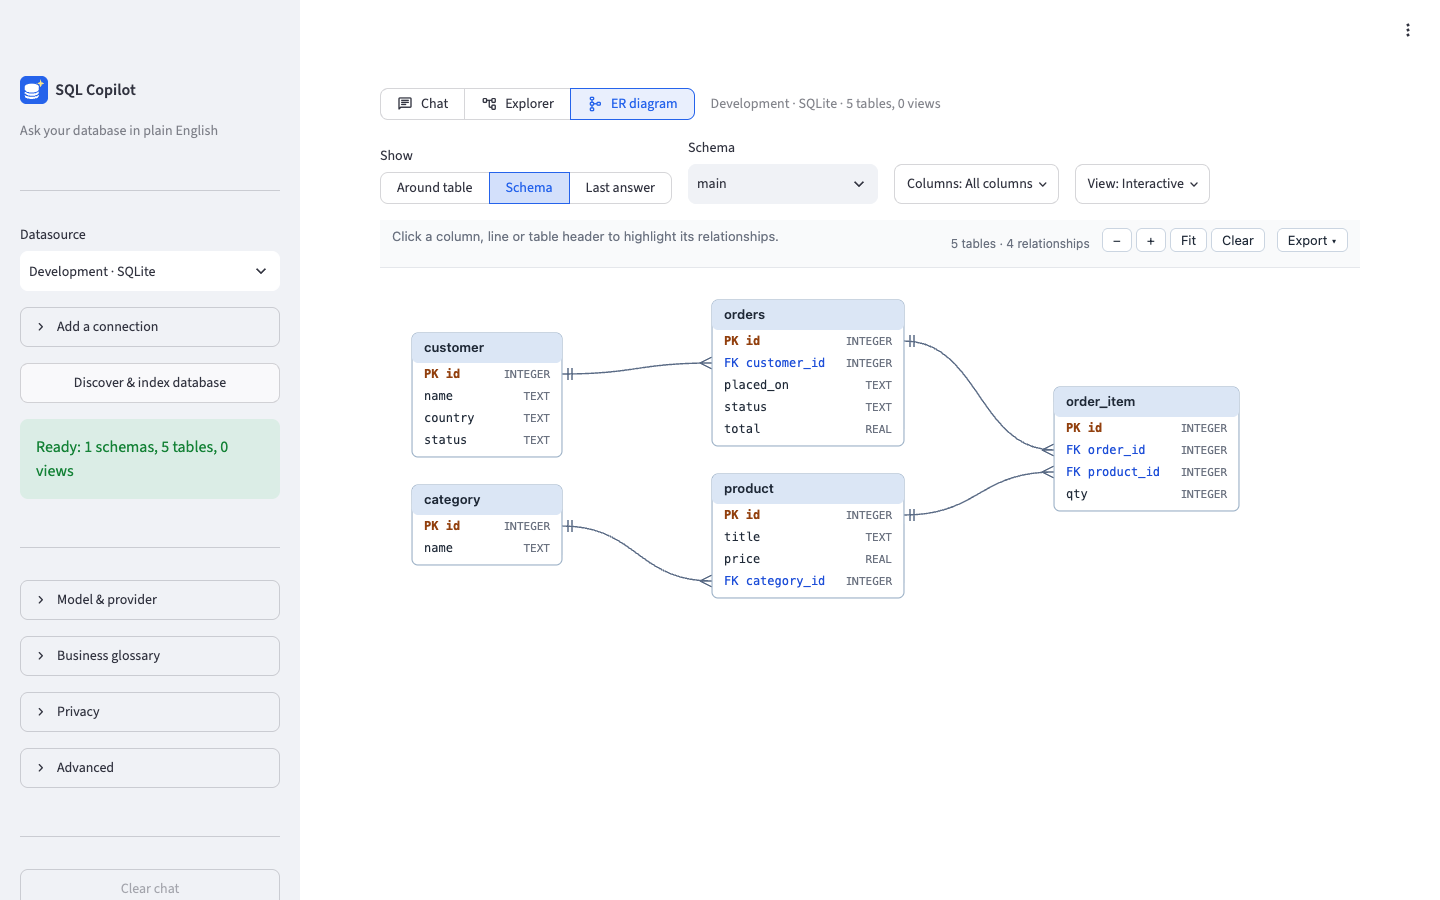
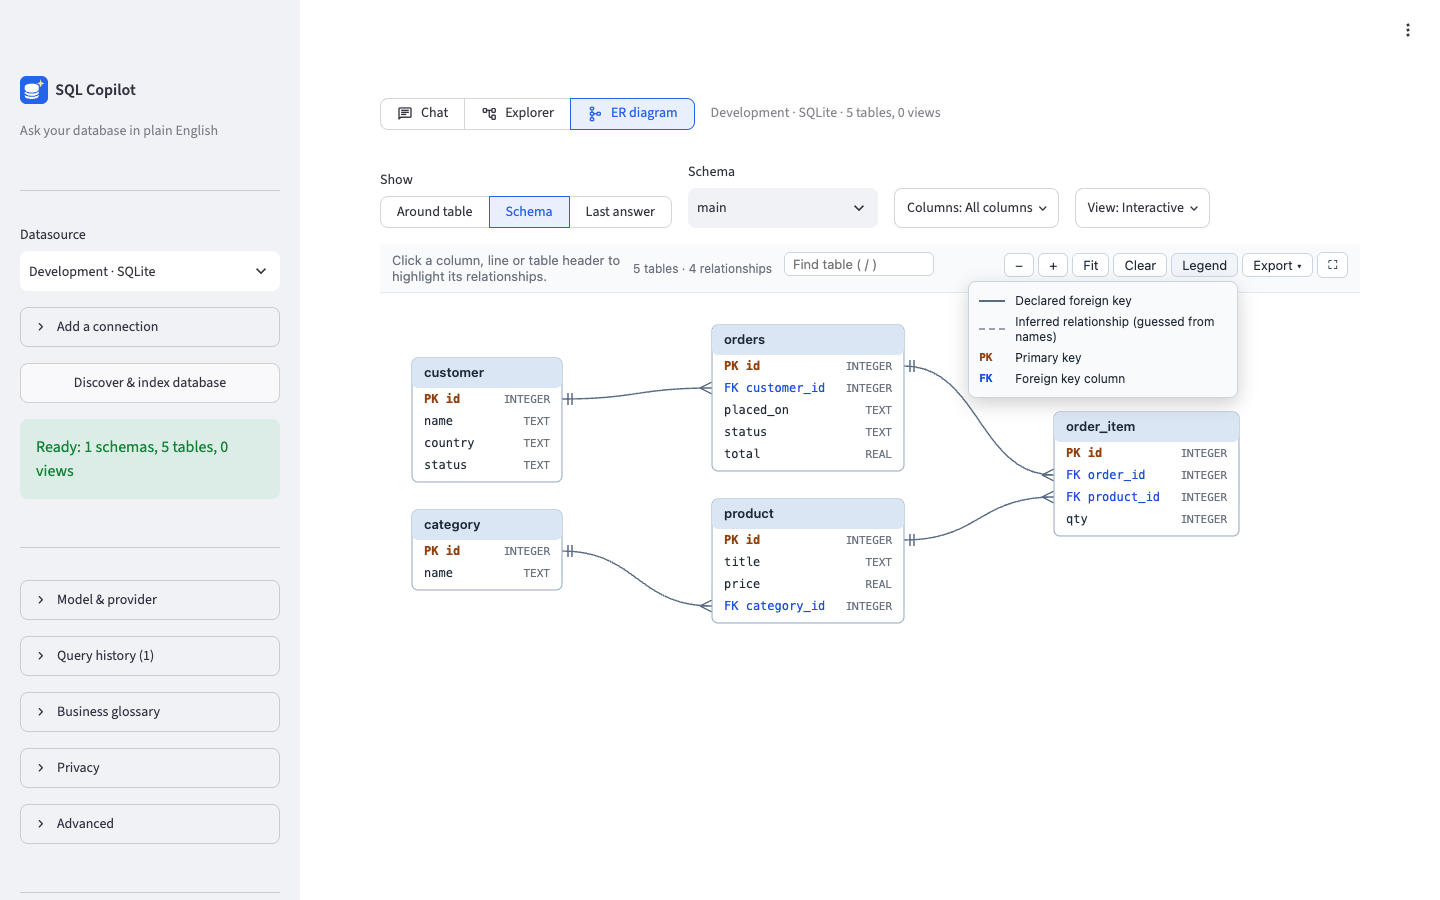
Update the README and refresh the screenshots
Retake the screenshots with the current interface, add the chart, column
profile and helpful-error views, and correct the stated test duration.

diff --git a/README.md b/README.md
@@ -29,23 +29,35 @@ Ask questions about your database in plain English and get SQL, results, charts 
 
 ## Screenshots
 
-The screenshots use a small demo shop database (SQLite).
+The screenshots use a small demo shop database (SQLite). The chat answer was produced with a stand-in model so the screenshots are reproducible; everything on screen is drawn by the real app.
 
 **Verified example questions on the landing page** (run instantly, no model needed)
 
 ![Chat landing page with verified example questions](docs/screenshots/chat-landing.png)
 
-**An answer with table, chart, SQL, CSV download and follow-up suggestions**
+**An answer with a sortable table, SQL, CSV download, Correct / Wrong buttons and follow-up suggestions**
 
 ![Chat answer showing a result table](docs/screenshots/chat-answer.png)
 
-**Explorer:** browse, filter, sort and export table data
+**The same answer as a chart** (switch type, axes, combine rows or split by)
 
-![Explorer showing the Data section of a table](docs/screenshots/explorer.png)
+![Chart tab with the chart type and axis pickers](docs/screenshots/chat-chart.png)
 
-**Interactive ER diagram**
+**Explorer:** browse, filter and sort table data, select a row to see it in full and follow its relationships
 
-![Interactive ER diagram of the whole schema](docs/screenshots/er-diagram.png)
+![Explorer showing the Data section of a table with a selected row](docs/screenshots/explorer.png)
+
+**Explorer:** profile a column (nulls, distinct values, range, spread)
+
+![Explorer Properties section with a column profile](docs/screenshots/explorer-profile.png)
+
+**Interactive ER diagram** (find a table, zoom, legend, export, full screen)
+
+![Interactive ER diagram of the whole schema with the legend open](docs/screenshots/er-diagram.png)
+
+**When something goes wrong:** the original message plus a short list of what to try
+
+![A failed connection with a What to try list and an Index this database button](docs/screenshots/helpful-errors.png)
 
 ## Quick start
 
@@ -128,7 +140,7 @@ Publish the port on `127.0.0.1` as shown. Inside the container the app must list
 
 ```bash
 pip install -r requirements-dev.txt
-pytest                                   # ~30 s, no network, model or database needed
+pytest                                   # ~1.5 min, no network, model or database needed
 SQL_COPILOT_PG_TEST=1 pytest -m integration   # optional: read-only checks against your PostgreSQL
 ```
 

diff --git a/CLAUDE.md b/CLAUDE.md
@@ -138,7 +138,7 @@ Empty placeholders (safe to delete): `config/settings.py`, `rag/vector_store.py`
 
 ## Tests
 
-`pytest` (config in `pytest.ini`, tests in `tests/`) runs in about 15s with no network, LLM, embedding download or PostgreSQL needed.
+`pytest` (config in `pytest.ini`, tests in `tests/`) runs in about 80 s (including the browser tests) with no network, LLM, embedding download or PostgreSQL needed.
 
 - Unit tests per module: SQL guard (all dialects + privacy policy), dialects/URLs, metadata and relationship inference, privacy, Flyway, retrieval/ranking, query service, table selector, glossary, example store, charting, ER diagram, providers (HTTP and LLM factories mocked).
 - Database layer runs against a temporary SQLite file (`shop_db` fixture in `tests/conftest.py`), including DB-level read-only enforcement.
